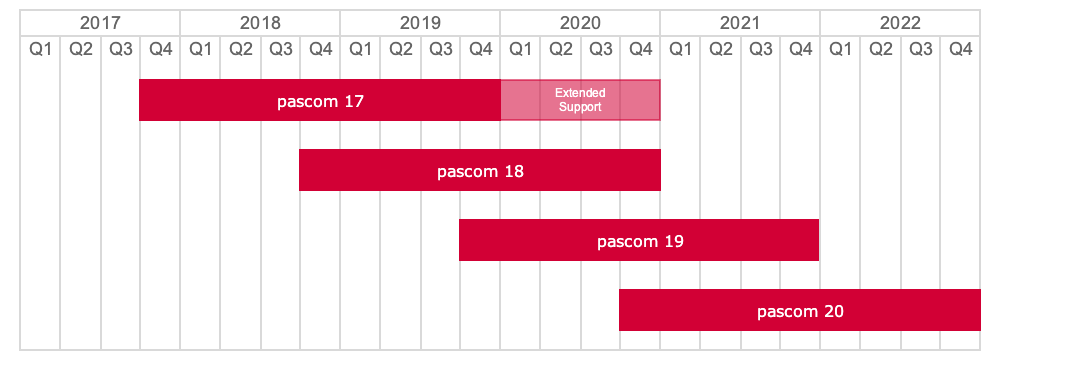
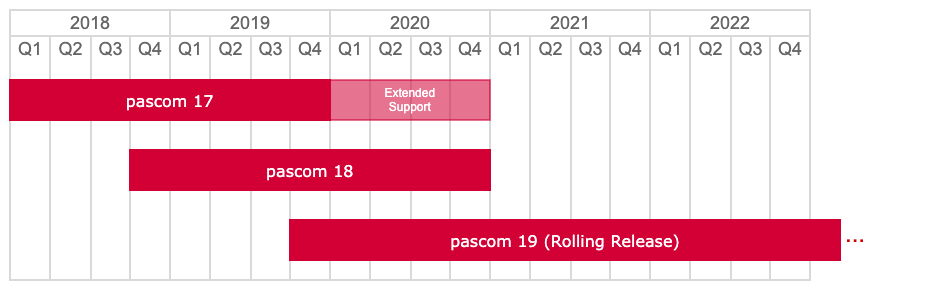
Introduction of the rolling release

diff --git a/site/content/release-notes/_index.de.md b/site/content/release-notes/_index.de.md
@@ -12,6 +12,14 @@ weight: 14
 
 ![Supported Versions](pascom_version_support.png "Supported Versions")
 
+### Rolling Release 
+
+Wir liefern neue Funktion bei Fertigstellung in einem rollierenden Prozess aus und warten nicht auf die "nächste große" Version. Als Vorteil erhalten unsere Kunden neue Funktionen schneller und es gibt nicht zu viele Änderungen auf einmal.
+
+### Wann wird es pascom 20 geben?
+
+Durch unser Rolling Release ist eine neue Major-Version erst dann nötig, wenn große Technologieänderungen vollzogen werden müssen die einen Parallelbetrieb mehrerer Versionen erfordert. Aktuell sind keine Änderungen dieser Größenordnung in Sichtweite.
+
 ### Was bedeutet unterstützte Version?
 
 Dabei handelt es sich um das jeweils aktuellste Bugfix-Release einer pascom Server Version. Nur für unterstützte Versionen gewährleistet pascom:

diff --git a/site/content/release-notes/_index.en.md b/site/content/release-notes/_index.en.md
@@ -12,6 +12,14 @@ weight: 14
 
 ![Supported Versions](pascom_version_support.png "Supported Versions")
 
+### Rolling Release
+
+We deliver new functions upon completion in a rolling process and do not wait for the "next big" version. As an advantage, our customers receive new features faster and there are not so many changes at once.
+
+### When will pascom 20 be available?
+
+Thanks to our rolling release, a new major version is only necessary when major technology changes have to be made that require the parallel operation of several versions. No changes of this magnitude are currently in sight.
+
 ### What is meant by "Supported Version"?
 
 The term supported version relates to the most recent bugfix release of a pascom phone system server version. pascom guarantees the following services for supported versions only:
